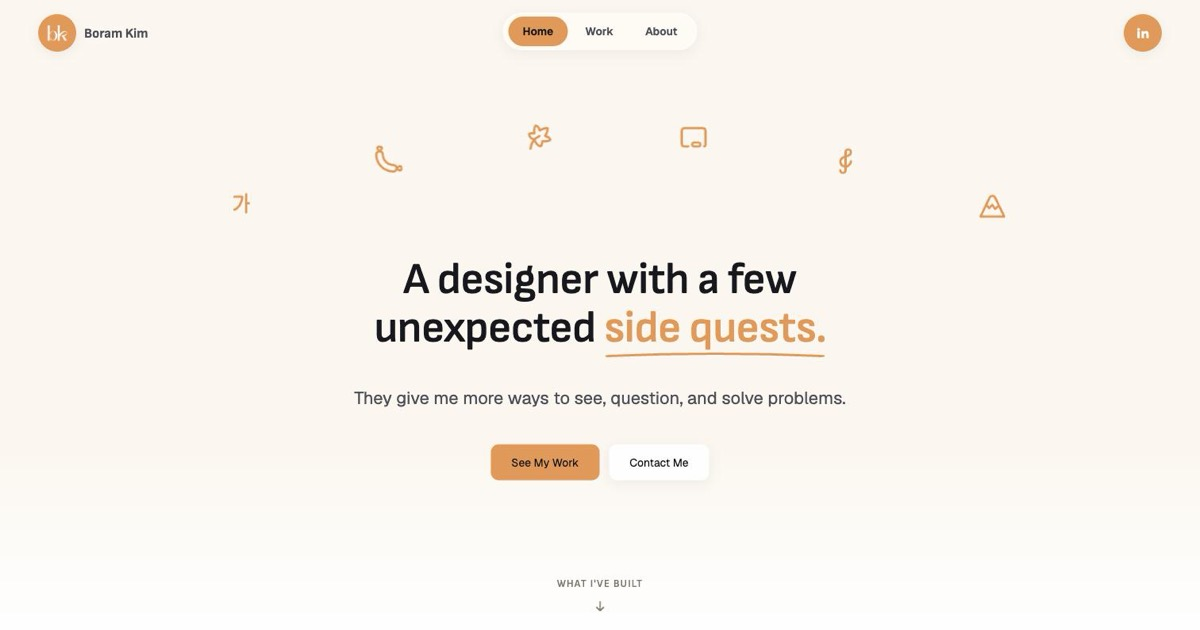
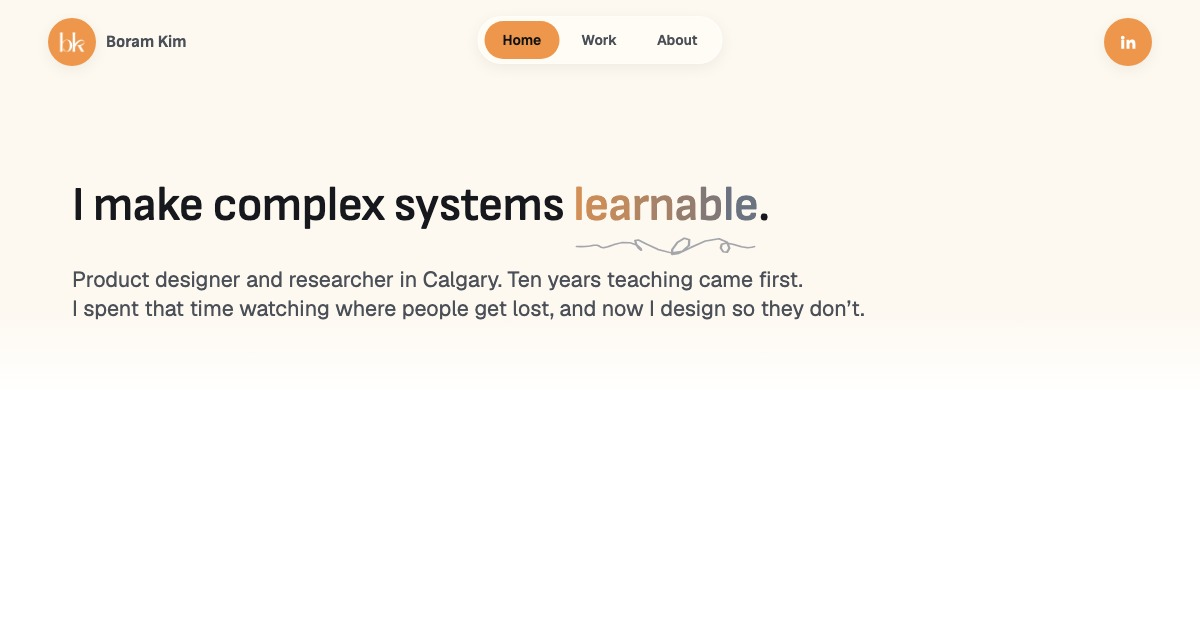
Add click-to-enlarge to shipped screenshots, refresh OG image
Generalize the wireframe lightbox trigger to a shared .cs-zoomable
class and apply it to cudagra's What-shipped screenshots. Regenerate
og-cover.jpg from the current (CTA-less, left-aligned) landing hero
so link previews match the live design.

diff --git a/cudagra.html b/cudagra.html
@@ -458,22 +458,30 @@
 
     <div class="cs-shiprow">
       <figure>
-        <img src="images/cudagra-shipped-sportsinfo.jpg" alt="Shipped Cudagra profile screen with the sport, level and position fields highlighted">
+        <button class="cs-zoomable" type="button" aria-label="Enlarge screenshot: sport, level and position fields">
+          <img src="images/cudagra-shipped-sportsinfo.jpg" alt="Shipped Cudagra profile screen with the sport, level and position fields highlighted" draggable="false">
+        </button>
         <figcaption>Sports information<br>&rarr; <span class="cs-ship-new">Level and position per sport</span></figcaption>
       </figure>
       <figure>
-        <img src="images/cudagra-shipped-playmates.jpg" alt="Shipped Cudagra home screen with the People you may know and Social Highlights sections highlighted">
+        <button class="cs-zoomable" type="button" aria-label="Enlarge screenshot: People you may know and Social Highlights">
+          <img src="images/cudagra-shipped-playmates.jpg" alt="Shipped Cudagra home screen with the People you may know and Social Highlights sections highlighted" draggable="false">
+        </button>
         <figcaption>Frequent playmates &middot; Highlights<br>&rarr; <span class="cs-ship-new">People you may know &middot; Social Highlights</span></figcaption>
       </figure>
       <figure>
-        <img src="images/cudagra-shipped-request.jpg" alt="Shipped Cudagra game details screen with the Request to join list highlighted">
+        <button class="cs-zoomable" type="button" aria-label="Enlarge screenshot: Request to join list">
+          <img src="images/cudagra-shipped-request.jpg" alt="Shipped Cudagra game details screen with the Request to join list highlighted" draggable="false">
+        </button>
         <figcaption>Ask to join<br>&rarr; <span class="cs-ship-new">Request to join</span></figcaption>
       </figure>
     </div>
 
     <div class="cs-shiprow cs-shiprow-mixed" style="margin-top:clamp(3rem, 6vw, 4.5rem)">
       <figure>
-        <img src="images/cudagra-shipped-rating.jpg" alt="Shipped Cudagra profile screen with the 5.0-star rating summary highlighted">
+        <button class="cs-zoomable" type="button" aria-label="Enlarge screenshot: 5.0-star rating summary">
+          <img src="images/cudagra-shipped-rating.jpg" alt="Shipped Cudagra profile screen with the 5.0-star rating summary highlighted" draggable="false">
+        </button>
       </figure>
       <div class="cs-shipnote">
         <h3 class="cs-claim">One decision went a different way</h3>

diff --git a/styles.css b/styles.css
@@ -1256,21 +1256,14 @@ body.case-page {
   .cs-sketchgrid { grid-template-columns: 1fr; }
 }
 
-/* Wireframes gallery (urcareer.html): three sketches side by side, click to
-   enlarge in a full-image overlay (.cs-lightbox, see script.js). Plain
-   click-to-enlarge rather than the .cs-viewer pan/zoom component — these are
-   flat sketch sheets that just need a bigger look, not panning around a tall
-   image. */
-.cs-wireframe-grid {
-  margin-top: 2.5rem;
-  margin-bottom: 2.5rem;
-  display: grid;
-  grid-template-columns: repeat(3, 1fr);
-  align-items: start;
-  gap: 1rem;
-}
-
-.cs-wireframe-item {
+/* Generic click-to-enlarge trigger: wrap any <img> in a <button
+   class="cs-zoomable"> to open it in the shared full-image overlay
+   (.cs-lightbox, see script.js). Used for the wireframes gallery
+   (urcareer.html) and the What-shipped screenshots (cudagra.html) — plain
+   click-to-enlarge rather than the .cs-viewer pan/zoom component, since
+   these are flat images that just need a bigger look, not panning around a
+   tall one. */
+.cs-zoomable {
   display: block;
   padding: 0;
   border: 0;
@@ -1282,26 +1275,36 @@ body.case-page {
    pixel or two of movement) from being interpreted as a native image-drag
    gesture — that swallows the click event before it reaches the button, so
    the enlarge action silently does nothing despite the zoom-in cursor. */
-.cs-wireframe-item img {
+.cs-zoomable img {
   display: block;
-  width: 100%;
-  height: auto;
   -webkit-user-drag: none;
   user-select: none;
   transition: opacity 0.2s ease;
 }
 
-.cs-wireframe-item:hover img,
-.cs-wireframe-item:focus-visible img {
+.cs-zoomable:hover img,
+.cs-zoomable:focus-visible img {
   opacity: 0.82;
 }
+
+/* Wireframes gallery (urcareer.html): three sketches side by side. */
+.cs-wireframe-grid {
+  margin-top: 2.5rem;
+  margin-bottom: 2.5rem;
+  display: grid;
+  grid-template-columns: repeat(3, 1fr);
+  align-items: start;
+  gap: 1rem;
+}
+
+.cs-wireframe-grid img { width: 100%; height: auto; }
 
 @media (max-width: 46rem) {
   .cs-wireframe-grid { grid-template-columns: 1fr; }
 }
 
-/* Lightbox overlay shared by any .cs-wireframe-item trigger — one instance
-   is created lazily in script.js and reused, rather than one per figure. */
+/* Lightbox overlay shared by any .cs-zoomable trigger — one instance is
+   created lazily in script.js and reused, rather than one per figure. */
 .cs-lightbox {
   position: fixed;
   inset: 0;

diff --git a/urcareer.html b/urcareer.html
@@ -232,13 +232,13 @@
     <h2 class="cs-sec">Three lists looked thorough. One was easier to act on.</h2>
 
     <div class="cs-wireframe-grid">
-      <button class="cs-wireframe-item" type="button" aria-label="Enlarge wireframe: sign in, mentor, employee, and article pages">
+      <button class="cs-zoomable" type="button" aria-label="Enlarge wireframe: sign in, mentor, employee, and article pages">
         <img src="images/urcareer-wireframe-1.png" alt="Wireframe sketches for the sign in, mentor, employee, and article pages" draggable="false">
       </button>
-      <button class="cs-wireframe-item" type="button" aria-label="Enlarge wireframe: recommendations split into similar, related, and interesting career lists">
+      <button class="cs-zoomable" type="button" aria-label="Enlarge wireframe: recommendations split into similar, related, and interesting career lists">
         <img src="images/urcareer-wireframe-2.png" alt="Wireframe sketch splitting career recommendations into three separate lists: similar, related, and interesting careers" draggable="false">
       </button>
-      <button class="cs-wireframe-item" type="button" aria-label="Enlarge wireframe: career detail, resources, mentor, and networking screens">
+      <button class="cs-zoomable" type="button" aria-label="Enlarge wireframe: career detail, resources, mentor, and networking screens">
         <img src="images/urcareer-wireframe-3.png" alt="Wireframe sketches for the career detail, resources, mentor, and networking screens" draggable="false">
       </button>
     </div>

diff --git a/script.js b/script.js
@@ -575,11 +575,11 @@ document.querySelectorAll(".cs-video-el").forEach((video) => {
   video.addEventListener("loadedmetadata", () => { video.playbackRate = 1.5; });
 });
 
-// Case study pages: click-to-enlarge wireframe images (.cs-wireframe-item).
-// One overlay is built lazily and reused for every trigger on the page,
-// rather than a lightbox per figure.
-const wireframeItems = document.querySelectorAll(".cs-wireframe-item");
-if (wireframeItems.length) {
+// Case study pages: click-to-enlarge images (.cs-zoomable) — wireframes,
+// shipped screenshots, etc. One overlay is built lazily and reused for every
+// trigger on the page, rather than a lightbox per figure.
+const zoomableItems = document.querySelectorAll(".cs-zoomable");
+if (zoomableItems.length) {
   const overlay = document.createElement("div");
   overlay.className = "cs-lightbox";
   overlay.innerHTML = `
@@ -601,7 +601,7 @@ if (wireframeItems.length) {
     document.body.classList.remove("cs-lightbox-lock");
   }
 
-  wireframeItems.forEach((item) => item.addEventListener("click", () => openLightbox(item)));
+  zoomableItems.forEach((item) => item.addEventListener("click", () => openLightbox(item)));
   overlay.querySelector(".cs-lightbox-close").addEventListener("click", closeLightbox);
   overlay.addEventListener("click", (e) => { if (e.target === overlay) closeLightbox(); });
   document.addEventListener("keydown", (e) => {
